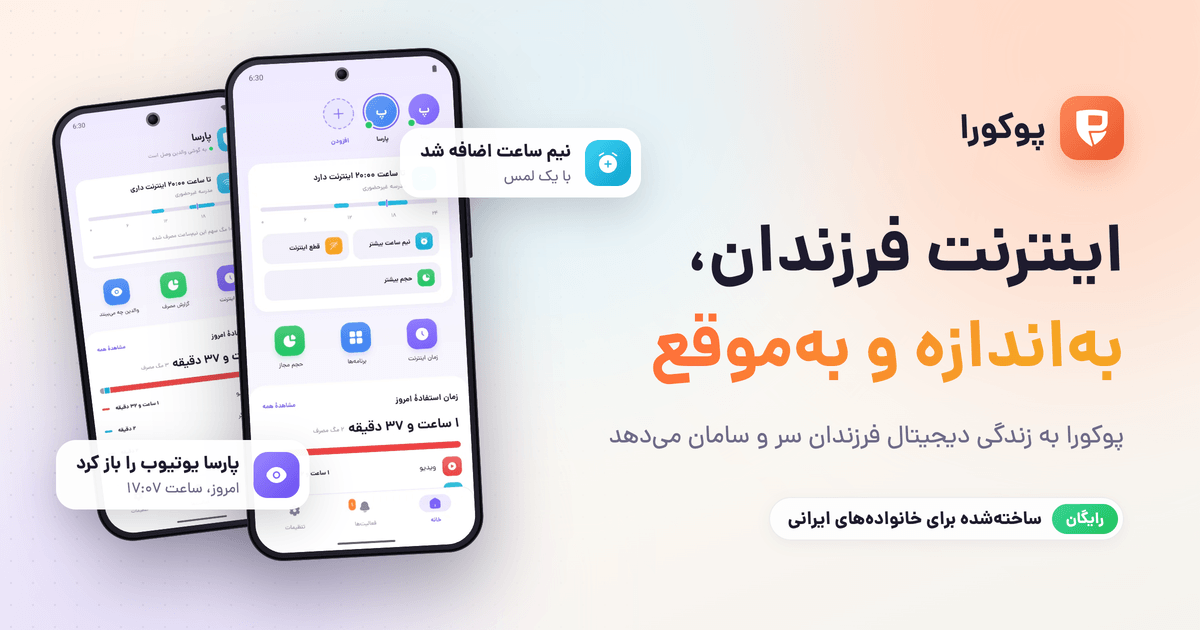
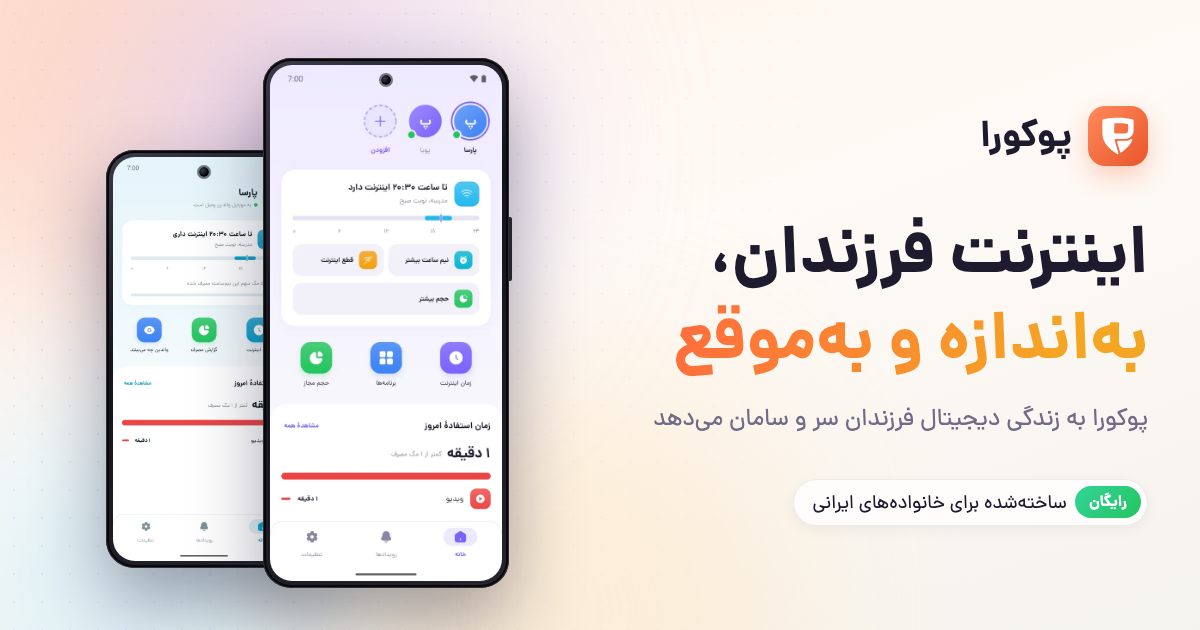
Draw the link preview by script, from the page's own hero
docs/tools/og.sh writes the hero as a page for the run, on the site's stylesheet, fonts and shots, with the hero's
shade and glows, and has a headless browser save it at 1200 x 630.

diff --git a/README.md b/README.md
@@ -56,7 +56,7 @@ On top of the preset the parent changes single days, for this week or every week
 
 ```
 docs/           the Persian landing page, served by GitHub Pages from main
-  tools/        icons.sh writes its icon sprite; shots.sh takes its screenshots from the virtual phones
+  tools/        icons.sh writes its icon sprite, shots.sh takes its screenshots from the virtual phones, og.sh draws its link preview
 assets/         source artwork: fonts/ (Dana), icon/ (the app icon as SVG)
 android/        one Gradle project that builds both apps
   Makefile      check, image, phones, icons, format, test, build, release, run, run-both, pair, publish, clean
